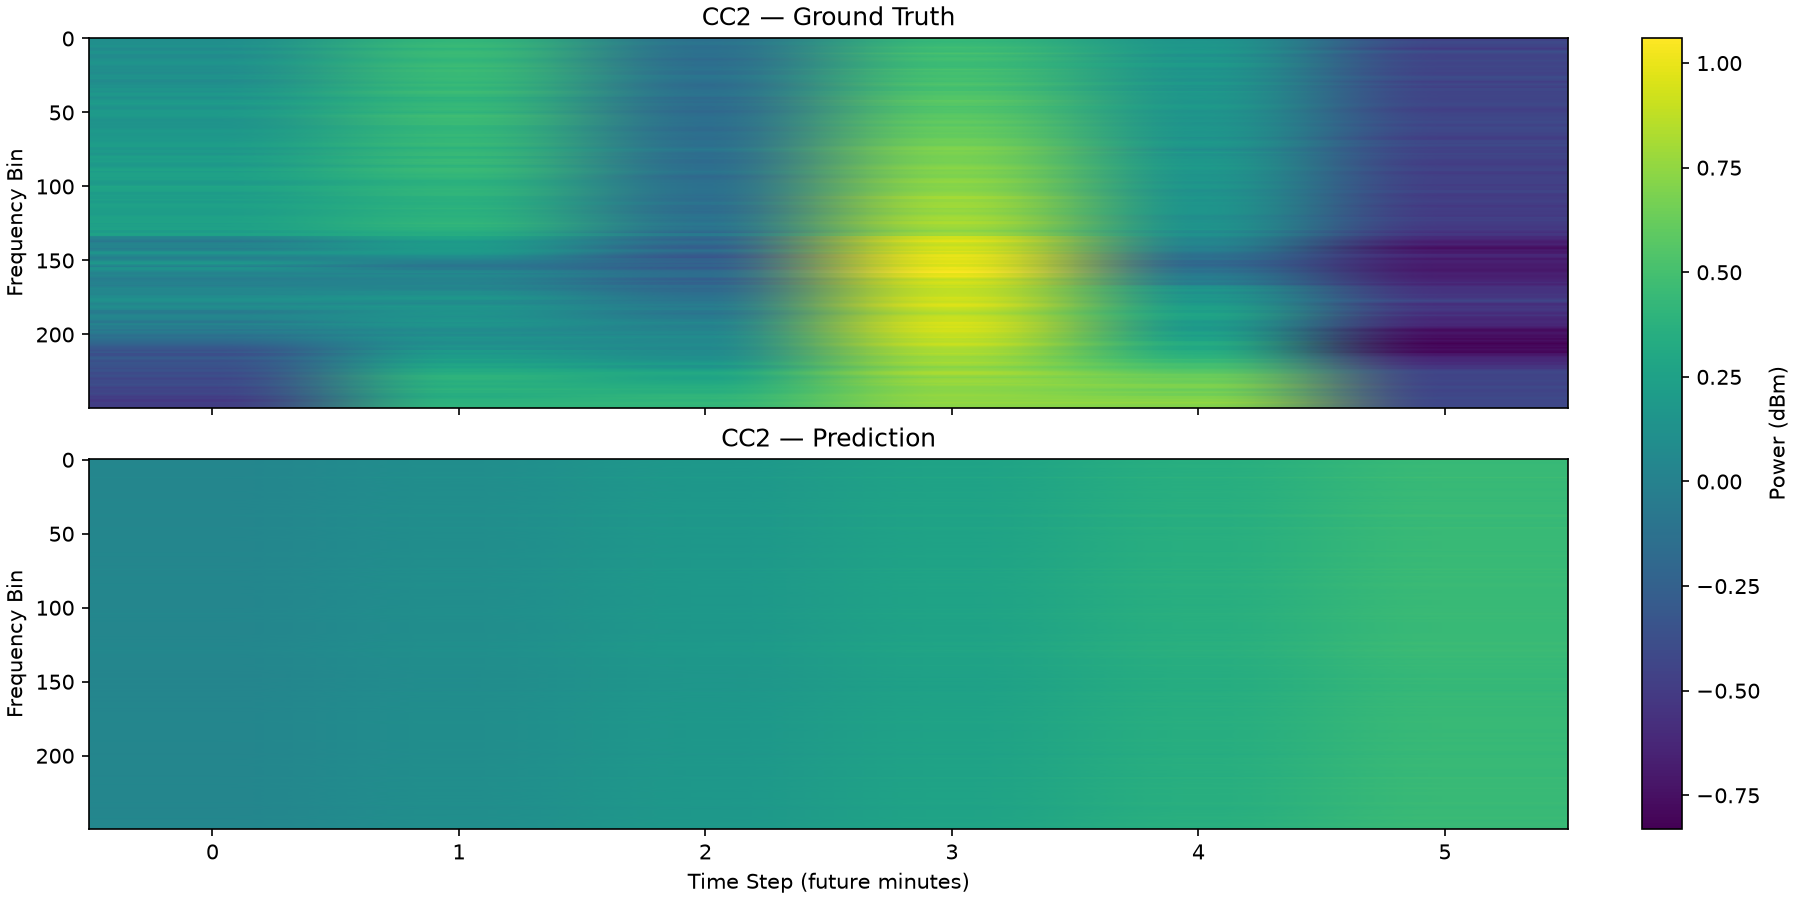
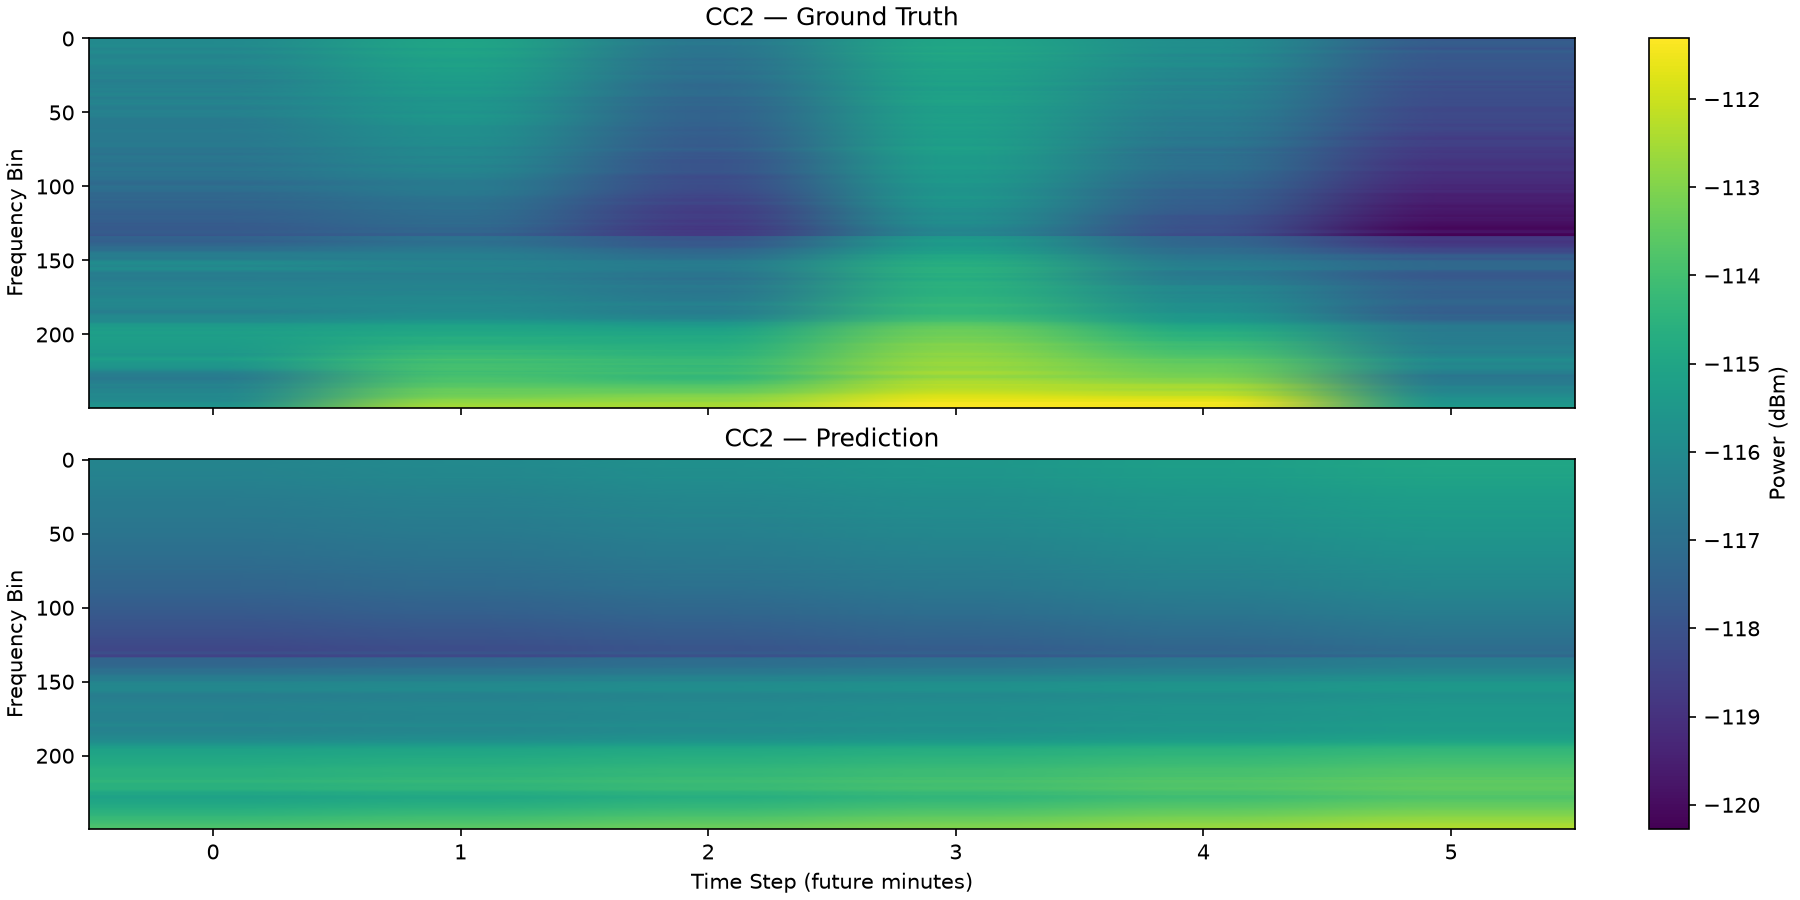
fix: plot denormalised dBm, not normalized values
ConvLSTM and TimeRAN evaluate.py were passing normalized pred_np/
target_np to the plot functions while correctly saving denormalized
data to CSVs. Now all three models plot actual dBm values.

diff --git a/training/TimeRAN/evaluate.py b/training/TimeRAN/evaluate.py
@@ -217,9 +217,9 @@ def main():
         json.dump({**overall, **per_horizon, **per_node}, f, indent=2)
     print(f"\nMetrics saved to {metrics_path}")
 
-    B, C, H = pred_norm.shape
-    pred_3d = pred_norm.transpose(0, 2, 1).reshape(B, H, n_nodes, bins_per_node)
-    target_3d = target_norm.transpose(0, 2, 1).reshape(B, H, n_nodes, bins_per_node)
+    B, C, H = pred_dbm.shape
+    pred_3d = pred_dbm.transpose(0, 2, 1).reshape(B, H, n_nodes, bins_per_node)
+    target_3d = target_dbm.transpose(0, 2, 1).reshape(B, H, n_nodes, bins_per_node)
 
     errors = pred_3d - target_3d
     for n, name in enumerate(node_names):

diff --git a/training/ConvLSTM/evaluate.py b/training/ConvLSTM/evaluate.py
@@ -176,11 +176,11 @@ def main():
         json.dump({**overall, **per_horizon, **per_node}, f, indent=2)
     print(f"\nMetrics saved to {metrics_path}")
 
-    errors = pred_np[:, :, 0, :, :] - target_np[:, :, 0, :, :]
+    errors = pred_dbm[:, :, 0, :, :] - target_dbm[:, :, 0, :, :]
     for n, name in enumerate(node_names):
         plot_path = os.path.join(output_dir, f"spectrogram_{name}.png")
         plot_spectrogram_comparison(
-            target_np[0, :, 0, :, :], pred_np[0, :, 0, :, :],
+            target_dbm[0, :, 0, :, :], pred_dbm[0, :, 0, :, :],
             n, name, wcfg["input_sequence_length"], plot_path,
         )
         print(f"Spectrogram saved to {plot_path}")